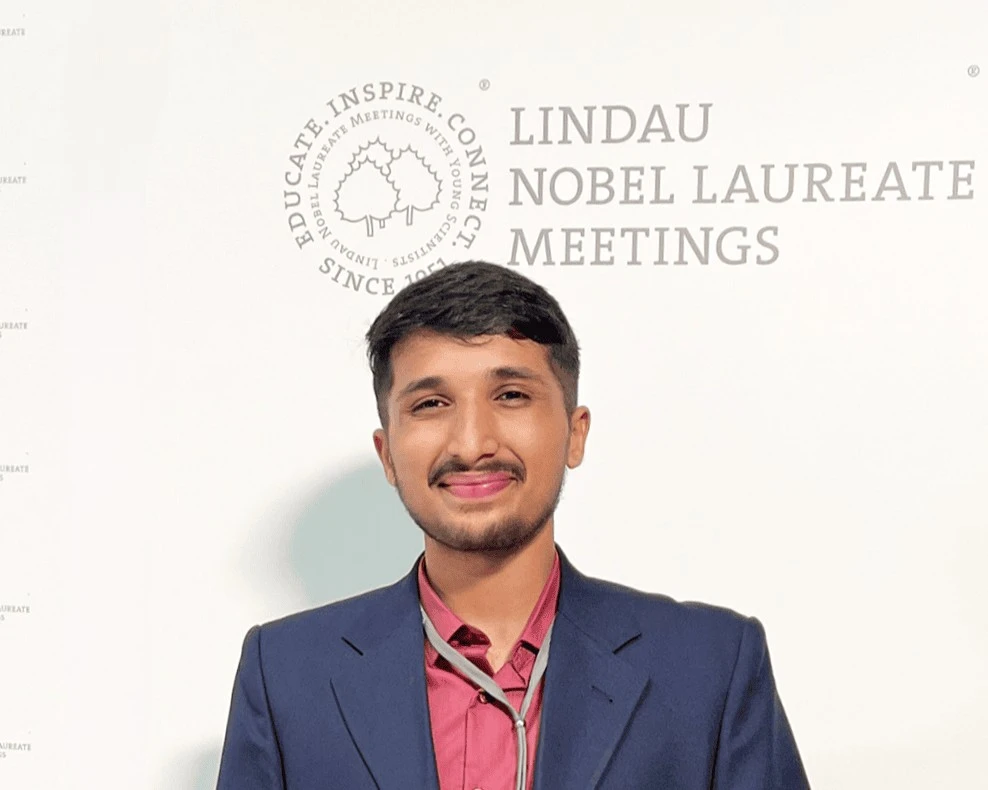
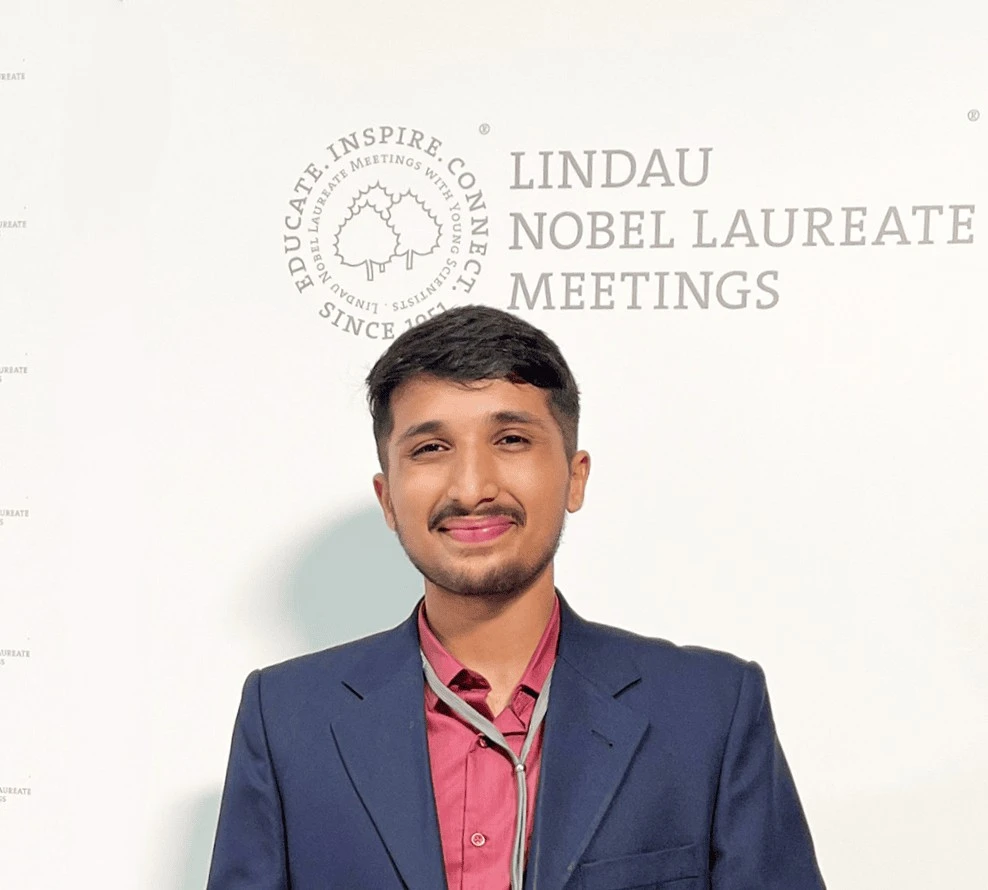
mobile layout changes

diff --git a/css/mobile.css b/css/mobile.css
@@ -157,24 +157,6 @@ body, html{
     padding-bottom: 15vh;
 }
 
-#about > .sec-head{
-    padding-top: 0;
-    padding-bottom: 7vh;
-    /* min-height: 95vh; */
-
-    background-color: white;
-    position: relative;
-    top: 0;
-    height: fit-content;
-    align-items: center;
-    justify-content: center;
-    align-content: center;
-}
-
-#about> .sec-head> *{
-    background-color: white;
-}
-
 #main-landing{
     align-items: center;
     justify-content: center;
@@ -195,19 +177,36 @@ body, html{
     row-gap: 0px;
 }
 
+#about > .sec-head{
+    padding-top: 0;
+    padding-bottom: 7vh;
+    min-height: 95vh;
+    background-color: white;
+    position: relative;
+    top: 0;
+    height: fit-content;
+    display: flex;
+    flex-direction: column;
+    align-items: center;
+    justify-content: flex-start;
+    align-content: center;
+}
+
 
 #photo-inner{
     width: 100vw;
-    height: 80vw;
+    height: 90vw;
 }
 
 #photo{
     width: 100vw;
     padding: 0;
-    height: fit-content;
+    height: 100%;
+    min-height: 95vw;
     display: flex;
     flex-direction: column;
     row-gap: 30px;
+    /* justify-content: space-evenly; */
     /* position: absolute; */
     top: 0;
 }
@@ -215,18 +214,12 @@ body, html{
 #profile-img-mob{
     display: block;
     width: 100vw;
-    height: 80vw;
+    height: 90vw;
 }
 
 
-/* #photo-inner{
-    background-color: #ffffff70;
-} */
-
-#profile-img{
-    width: 100%;
-    height: 100%;
-    /* border: 8px solid white; */
+.socials-menu>a:hover{
+    background-color: #fbf8f2;
 }
 
 #landing-text-mobile{

diff --git a/index.html b/index.html
@@ -15,7 +15,7 @@
     <link rel="icon" type="image/x-icon" href="favicon.ico">
 </head>
 <body>
-    <iframe src="https://visitor-counter-adithyarao3103.vercel.app/increment?name=website" style="display:none"></iframe>
+    <!-- <iframe src="https://visitor-counter-adithyarao3103.vercel.app/increment?name=website" style="display:none"></iframe> -->
     <nav class="navbar" id="navbar-mob">
         <button class="menu-toggle" onclick="toggleMenu()"><div class="bdrop"></div><i class="fa-solid fa-bars"></i></button>
     </nav>
